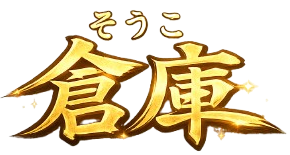
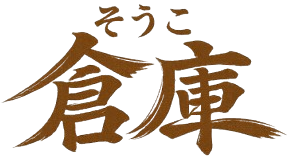
ストック画像を毛筆版に更新・ポップアップタイトルを半分サイズに縮小

diff --git a/style.css b/style.css
@@ -3913,7 +3913,7 @@ body {
 }
 
 #stock-popup-title {
-  max-width: calc(100% - 52px);
+  max-width: calc(50% - 26px);
   height: auto;
   display: block;
   object-fit: contain;
